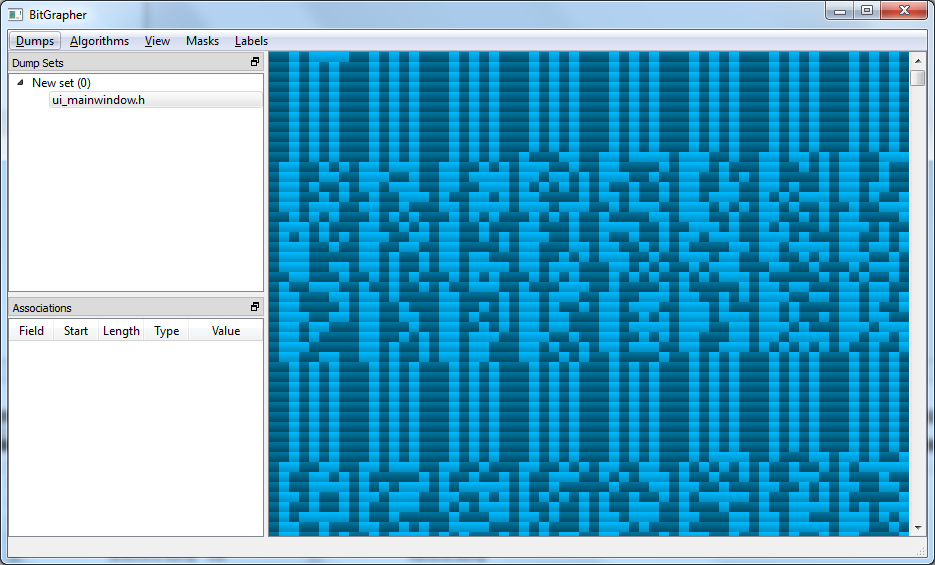
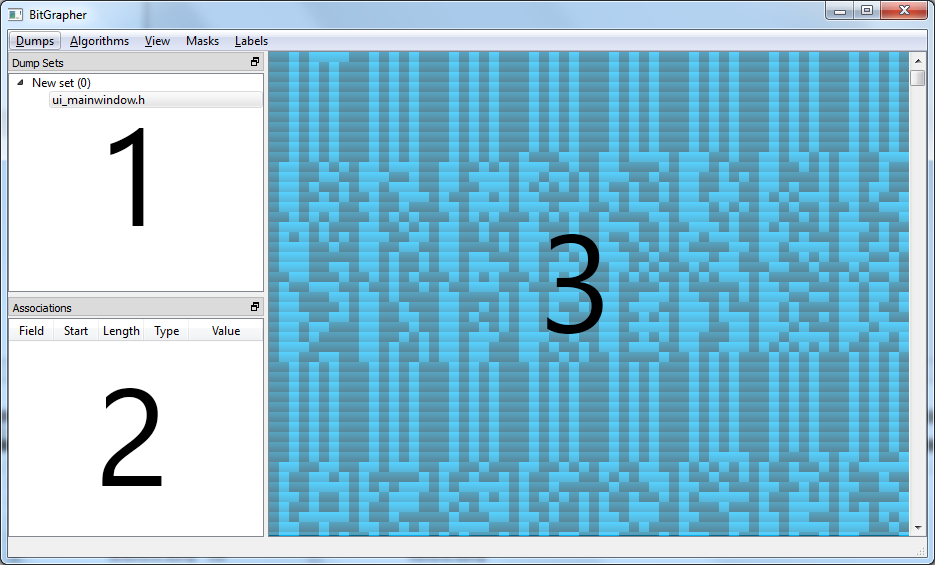
[Rapport] Corrections

diff --git a/Rapport/parts/01-etude-existant.tex b/Rapport/parts/01-etude-existant.tex
@@ -1,3 +1,3 @@
-L'étude bibliographique que nous avons réalisée ne nous a fourni que peu de pistes vers des travaux existants sur le sujet. En effet, il existe une multitude d'outils de \texttt{data carving}, mais ils sont le plus souvent destinés à de beaucoup plus vastes volumes de données, et en connaissant relativement précisément l'information recherchée (des fichers JPEG sur un disque dur abîmé par exemple). La particularité de notre sujet tient dans le fait que les volumes considérés sont extrèmement faibles, avec une structure qui varie énormément d'un support à l'autre. En effet, étant donné l'espace de stockage disponible sur une \texttt{smartcard}, les entreprises utilisent le plus souvent des structures qui leurs sont exclusives.
+L'étude bibliographique que nous avons réalisée ne nous a fourni que peu de pistes vers des travaux existants sur le sujet. En effet, il existe une multitude d'outils de \texttt{data carving}, mais ils sont le plus souvent destinés à de beaucoup plus vastes volumes de données, et en connaissant relativement précisément l'information recherchée (des fichers JPEG sur un disque dur abîmé par exemple). La particularité de notre sujet tient dans le fait que les volumes considérés sont extrèmement faibles, avec une structure qui varie énormément d'un support à l'autre. En effet, étant donné l'espace de stockage disponible sur une \texttt{smartcard}, les entreprises utilisent le plus souvent des structures qui leur sont exclusives.
 
 Nous avons toutefois pu identifier un outil, mCarve, qui illustrait un thème plus général mais correspondait en quelques points à ce que nous recherchions. Le défaut principal de mCarve est qu'il est essentiellement basé sur une analyse dynamique de dumps, où l'on possède plusieurs versions du même fichier capturées à des instants différents. Notre sujet portant également sur des analyses statiques, il fallait y ajouter un bon nombre de fonctionnalités. De plus, nous l'avons trouvé relativement peu intuitif à l'usage, l'interface utilisateur ne présentant que les résultats bruts des algorithmes de comparaison.

diff --git a/Rapport/parts/01-contexte.tex b/Rapport/parts/01-contexte.tex
@@ -1,3 +1,3 @@
 Dans le cadre du projet \texttt{Études Pratiques} de 3ème année du département informatique, nous avons travaillé sur le sujet « Memory Carving Applied to SmardCard Dumps », avec l'aide de Gildas Avoine qui nous a accompagné tout au long de ce projet. Ce domaine nous étant totalement étranger, nous avons commencé par le découvrir à travers une recherche bibliographique. En partant du \texttt{dump} de la mémoire d'une smartcard, il est possible de retrouver les informations qui y sont contenues, ainsi que la manière dont elles sont structurées.
 
-Les données peuvent être enregistrées de diverses manières suivant leur type. Pour le texte, il existe une multitude d'encodages tels que ASCII ou UTF-8 pour citer les plus connus. Les dates peuvent être sous la forme d'un nombre de secondes écoulées, au format JJ/MM/AAAA et bien d'autres. Devant le nomre de représentations différentes de la même donnée, réaliser un catalogue exhaustif des encodages serait une tâche immense et jamais terminée. Aussi nous nous sommes plus attardés sur une analyse des données permettant de mettre en avant leur structure, ou profitant des informations déjà connues (comme le nom de la personne) pour retrouver l'encodage utilisé et la localisation dans la mémoire du champ donné.
+Les données peuvent être enregistrées de diverses manières suivant leur type. Pour le texte, il existe une multitude d'encodages tels que ASCII ou UTF-8 pour citer les plus connus. Les dates peuvent être sous la forme d'un nombre de secondes écoulées, au format JJ/MM/AAAA et bien d'autres. Devant le nombre de représentations différentes de la même donnée, réaliser un catalogue exhaustif des encodages serait une tâche immense et jamais terminée. Aussi nous nous sommes plus attardés sur une analyse des données permettant de mettre en avant leur structure, ou profitant des informations déjà connues (comme le nom de la personne) pour retrouver l'encodage utilisé et la localisation dans la mémoire du champ donné.

diff --git a/Rapport/parts/03-interface.tex b/Rapport/parts/03-interface.tex
@@ -8,12 +8,12 @@ L'interface utilisateur est découpée en 3 parties, qui reprennent les trois fo
   \end{center}
 \end{figure}
 
-Le premier volet, en haut à gquche, contient la liste des \texttt{dump sets} actuellement étudiés. Un dump set peut contenir plusieurs dumps, qui seront comparés entre eux.
+Le premier volet (1) contient la liste des \texttt{dump sets} actuellement étudiés. Un dump set peut contenir plusieurs dumps, qui seront comparés entre eux.
 
-Le second volet, en bas à gauche, affiche la liste des champs identifiés par l'utilisateur. Au fur et à mesure de l'analyse du dump, les données collectées permettent de comprendre la structure du fichier.
+Le second volet (2) affiche la liste des champs identifiés par l'utilisateur. Au fur et à mesure de l'analyse du dump, les données collectées permettent de comprendre la structure du fichier.
 
-La zone d'affichage princpale, à droite, correspond à une visualisation des données du dump, qui peut être sous la forme de bitmap comme sur l'image, ou bien sous forme textuelle avec un encodage choisi au préalable.
+La zone d'affichage principale (3) correspond à une visualisation des données du dump, qui peut être sous la forme de bitmap comme sur l'image, ou bien sous forme textuelle avec un encodage choisi au préalable.
 
-Les menus donnent accès aux différents outils d'analyse, ainsi qu'à la sauvegarde et au chargement de dumps, de dumpsets ou de masques.
+Les menus donnent accès aux différents outils d'analyse, ainsi qu'à la sauvegarde et au chargement de dumps, de dump sets ou de masques.
 
 L'interface utilisateur est entièrement fluide et les volets peuvent être détachés ou déplacés pour que l'utilisateur puisse organiser son espace de travail comme il le souhaite.

diff --git a/Rapport/parts/04-aide_decision.tex b/Rapport/parts/04-aide_decision.tex
@@ -3,7 +3,7 @@ Afin de mieux assister l'utilisateur dans son analyse, des aides à la décision
 \subsubsection{Formats d'entrée}
 
 Tout d'abord, lors de l'ouverture d'un dump, l'aide à la décision sélectionne le format le plus probable (parmi binaire, hexadécimal ou donnée brute), tout en laissant le choix parmi les autres formats possibles (les formats qui ne sont pas respectés par le fichier sont éliminés).
-Par exemple, si l'on tente d'ouvrir un fichier contenant la chaîne ASCII ''0A1F'', l'aide à la décision la reconnaîtra comme de l'hexadécimal. L'utilisateur pourra également choisir l'option ''donnée brute'' (qui importe les caractères ASCII directement), mais pas l'option binaire (le chaîne contenant autre chose que des ''0'' et des ''1'').
+Par exemple, si l'on tente d'ouvrir un fichier contenant la chaîne ASCII ''0A1F'', l'aide à la décision la reconnaîtra comme de l'hexadécimal. L'utilisateur pourra également choisir l'option ''donnée brute'' (qui importe les caractères ASCII directement), mais pas l'option binaire (la chaîne contenant autre chose que des ''0'' et des ''1'').
 
 \subsubsection{Tailles de chaîne minimale pour l'analyse}
 

diff --git a/Rapport/parts/03-fonctionnalites.tex b/Rapport/parts/03-fonctionnalites.tex
@@ -1,14 +1,11 @@
 \begin{description}
   \item[Dump sets] \hfill \\
-  Les dumps chargés sont regroupés en dump sets. Un dump set représente plusieurs version de la même mémoire, ou bien des mémoires similaires. Des opérations peuvent être appliquées sur les dump sets pour comparer les dumps.
+  Les dumps chargés sont regroupés en dump sets. Un dump set représente plusieurs versions de la même mémoire, ou bien des mémoires similaires. Des opérations peuvent être appliquées sur les dump sets pour comparer les dumps.
 
   \item[Similarities] \hfill \\
   Recherche des similitudes entre plusieurs dumps.
 
-  \item[Dot plot pattern] \hfill \\
-  Analyse visuelle des motifs récurrents.
-
-  \item[Dot plot pattern] \hfill \\
+  \item[Dotplot pattern] \hfill \\
   Analyse visuelle des motifs récurrents.
 
   \item[Masks] \hfill \\

diff --git a/Rapport/parts/05-gestion_projet.tex b/Rapport/parts/05-gestion_projet.tex
@@ -2,8 +2,8 @@
 
 Dans le cadre de ce projet, nous avons mis en place diverses méthodes et outils de travail en groupe. Nous avons par exemple utilisé des outils de travail collaboratif pour partager nos ressources et mettre notre travail en commun :
 \begin{itemize}
-        \item[Git] : outil de versionnage pour partager le code source de notre application
-        \item[Google Drive] : système de stockage et synchronisation de fichiers pour tous les autres documents de notre projet.
+        \item Git : outil de versionnage pour partager le code source de notre application ;
+        \item Google Drive : système de stockage et synchronisation de fichiers pour tous les autres documents de notre projet.
 \end{itemize}
 
 \subsection{Organisation}

diff --git a/Rapport/rapport.tex b/Rapport/rapport.tex
@@ -63,14 +63,10 @@ Au cours de cette étude pratique, nous avons essayé de développer un logiciel
 \section{Algorithmique}
   \subsection{Analyse} \input{parts/04-analyse.tex}
   \subsection{Aide à la décision} \input{parts/04-aide_decision.tex}
-  \subsection{Pseudo-code}
-  \subsection{Complexité}
-  \subsection{Performances}
 \section{Gestion du projet}
   \input{parts/05-gestion_projet.tex}
-\section{Conclusion}
-  \subsection{Points remarquables au cours du projet}  \input{parts/06-remarques.tex}
-  \subsection{Améliorations envisageables} \input{parts/06-ameliorations.tex}
+\section{Améliorations envisageables}
+  \input{parts/06-ameliorations.tex}
 \bibliography{biblio}
 
 \end{document}

diff --git a/Rapport/parts/03-technologies.tex b/Rapport/parts/03-technologies.tex
@@ -1,3 +1,5 @@
 Pour réaliser ce projet, nous avons utilisé un langage et des librairies multi-plateformes comme imposé par le cahier des charges. Le logiciel est écrit en C++, avec la librairie Qt pour l'interface graphique.
 
+Un framework de tests unitaires, UnitTest++, a également été mis en place pour tester les composants clé du logiciel. Doxygen nous a permis de générer la documentation technique.
+
 Nos recherches ne nous ont ni permi de trouver des librairies de manipulation de chaînes de bits répondant à nos attentes, ni des implémentations des algorithmes utilisés satisfaisantes. Nous avons donc dû en écrire nos propres versions.
